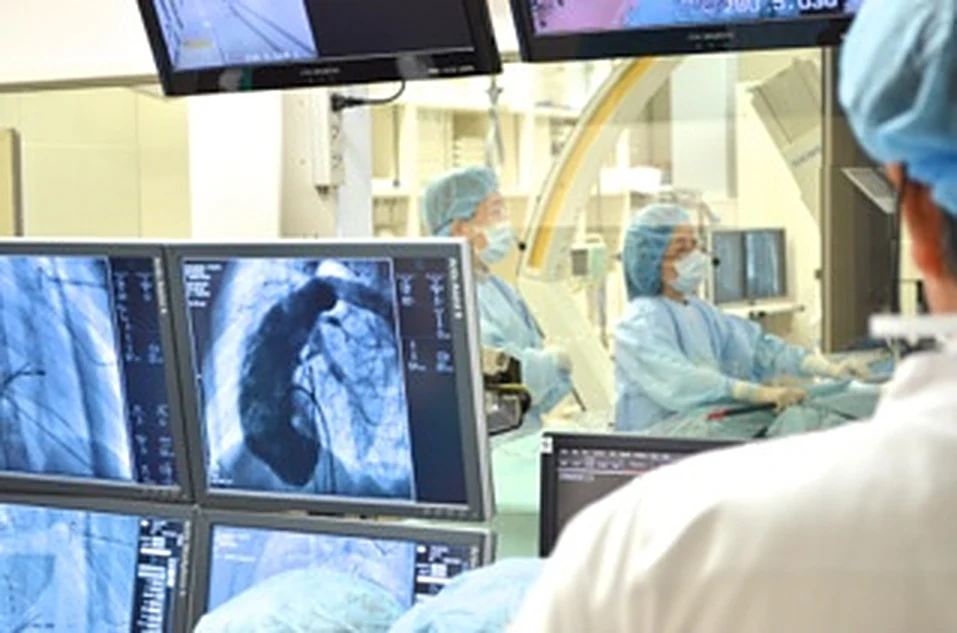
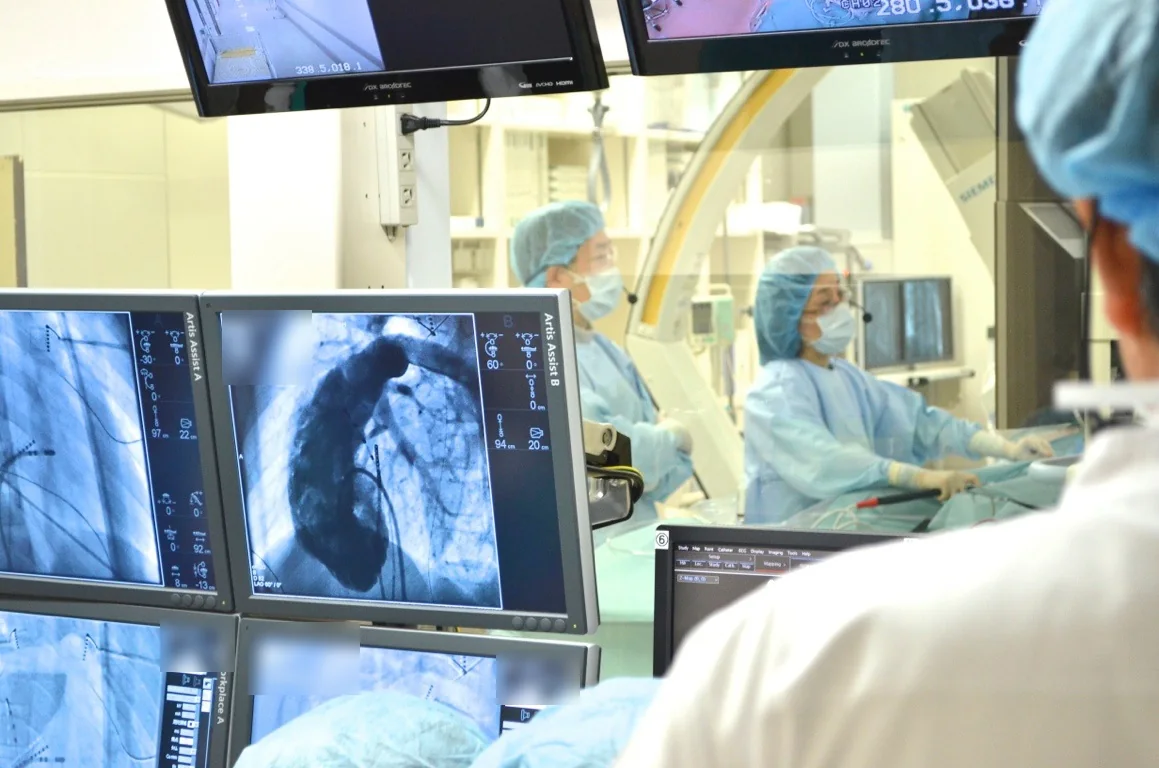
トップのアブレーションの仕事の写真を7719の原本（高画質）に差し替え。モニターの患者情報はぼかし

diff --git a/index.html b/index.html
@@ -18,7 +18,7 @@
   <meta name="apple-mobile-web-app-status-bar-style" content="black-translucent">
   <meta name="apple-mobile-web-app-title" content="つぐとしHP">
   <link rel="stylesheet" href="assets/site.css">
-  <link rel="stylesheet" href="assets/tsugu.css?v=20260926f">
+  <link rel="stylesheet" href="assets/tsugu.css?v=20260926g">
   <script>document.documentElement.classList.add('nx-js');</script>
   <style>
     body {
@@ -345,7 +345,7 @@
               </ul>
               <p class="tile-links"><a href="ablation.html">全体のデータ</a><a href="wpw_results.html">WPW</a><a href="pvc_results.html">PVC/NSVT</a><a href="avnrt_results.html">AVNRT</a></p>
             </div>
-            <a class="abl-photo" href="ablation.html" tabindex="-1" aria-hidden="true"><img src="assets/media/ablation-room.webp" width="957" height="633" alt="" loading="lazy"></a>
+            <a class="abl-photo" href="ablation.html" tabindex="-1" aria-hidden="true"><img src="assets/media/ablation-room.webp?v=2" width="1159" height="768" alt="" loading="lazy"></a>
           </div>
         </div>
       </section>

diff --git a/denden/index.html b/denden/index.html
@@ -6,7 +6,7 @@
   <meta name="description" content="平成9年（1997年）元旦に開設した、でんでん虫のホームページ。でんでん虫の独り言、闘病の記、処世訓解説、短歌、著書のPDFなど。">
   <title>でんでん虫のホームページ</title>
   <meta name="theme-color" content="#8bf5c5">
-  <link rel="stylesheet" href="../assets/tsugu.css?v=20260926f">
+  <link rel="stylesheet" href="../assets/tsugu.css?v=20260926g">
   <script>document.documentElement.classList.add('nx-js');</script>
   <!-- Google tag (gtag.js) -->
   <script async src="https://www.googletagmanager.com/gtag/js?id=G-R0BG9XQGE4"></script>

diff --git a/_private_src/index.html b/_private_src/index.html
@@ -9,7 +9,7 @@
   <link rel="icon" type="image/png" sizes="32x32" href="../assets/icons/profile-32.png">
   <link rel="apple-touch-icon" sizes="180x180" href="../assets/icons/profile-180.png">
   <meta name="theme-color" content="#8bf5c5">
-  <link rel="stylesheet" href="../assets/tsugu.css?v=20260926f">
+  <link rel="stylesheet" href="../assets/tsugu.css?v=20260926g">
   <style>
     /* このページだけの追加（所思雑感） */
     .nx .pv-group { max-width: 1120px; margin: 0 auto; padding: 0 var(--gutter); scroll-margin-top: calc(var(--header-h) + 16px); }

diff --git a/page_rfca/rfca_admission.html b/page_rfca/rfca_admission.html
@@ -9,7 +9,7 @@
   <link rel="icon" type="image/png" sizes="32x32" href="../assets/icons/profile-32.png">
   <link rel="apple-touch-icon" sizes="180x180" href="../assets/icons/profile-180.png">
   <meta name="theme-color" content="#8bf5c5">
-  <link rel="stylesheet" href="../assets/tsugu.css?v=20260926f">
+  <link rel="stylesheet" href="../assets/tsugu.css?v=20260926g">
   <script>document.documentElement.classList.add('nx-js');</script>
   <!-- Google tag (gtag.js) -->
   <script async src="https://www.googletagmanager.com/gtag/js?id=G-R0BG9XQGE4"></script>

diff --git a/page_rfca/rfca_manual.html b/page_rfca/rfca_manual.html
@@ -9,7 +9,7 @@
   <link rel="icon" type="image/png" sizes="32x32" href="../assets/icons/profile-32.png">
   <link rel="apple-touch-icon" sizes="180x180" href="../assets/icons/profile-180.png">
   <meta name="theme-color" content="#8bf5c5">
-  <link rel="stylesheet" href="../assets/tsugu.css?v=20260926f">
+  <link rel="stylesheet" href="../assets/tsugu.css?v=20260926g">
   <script>document.documentElement.classList.add('nx-js');</script>
   <!-- Google tag (gtag.js) -->
   <script async src="https://www.googletagmanager.com/gtag/js?id=G-R0BG9XQGE4"></script>

diff --git a/page_rfca/rfca_room_5.html b/page_rfca/rfca_room_5.html
@@ -9,7 +9,7 @@
   <link rel="icon" type="image/png" sizes="32x32" href="../assets/icons/profile-32.png">
   <link rel="apple-touch-icon" sizes="180x180" href="../assets/icons/profile-180.png">
   <meta name="theme-color" content="#8bf5c5">
-  <link rel="stylesheet" href="../assets/tsugu.css?v=20260926f">
+  <link rel="stylesheet" href="../assets/tsugu.css?v=20260926g">
   <script>document.documentElement.classList.add('nx-js');</script>
   <!-- Google tag (gtag.js) -->
   <script async src="https://www.googletagmanager.com/gtag/js?id=G-R0BG9XQGE4"></script>

diff --git a/page_rfca/rfca_room_5_2.html b/page_rfca/rfca_room_5_2.html
@@ -9,7 +9,7 @@
   <link rel="icon" type="image/png" sizes="32x32" href="../assets/icons/profile-32.png">
   <link rel="apple-touch-icon" sizes="180x180" href="../assets/icons/profile-180.png">
   <meta name="theme-color" content="#8bf5c5">
-  <link rel="stylesheet" href="../assets/tsugu.css?v=20260926f">
+  <link rel="stylesheet" href="../assets/tsugu.css?v=20260926g">
   <script>document.documentElement.classList.add('nx-js');</script>
   <!-- Google tag (gtag.js) -->
   <script async src="https://www.googletagmanager.com/gtag/js?id=G-R0BG9XQGE4"></script>

diff --git a/manuscripts.html b/manuscripts.html
@@ -9,7 +9,7 @@
   <link rel="icon" type="image/png" sizes="32x32" href="assets/icons/profile-32.png">
   <link rel="apple-touch-icon" sizes="180x180" href="assets/icons/profile-180.png">
   <meta name="theme-color" content="#8bf5c5">
-  <link rel="stylesheet" href="assets/tsugu.css?v=20260926f">
+  <link rel="stylesheet" href="assets/tsugu.css?v=20260926g">
   <script>document.documentElement.classList.add('nx-js');</script>
   <!-- Google tag (gtag.js) -->
   <script async src="https://www.googletagmanager.com/gtag/js?id=G-R0BG9XQGE4"></script>

diff --git a/media.html b/media.html
@@ -9,7 +9,7 @@
   <link rel="icon" type="image/png" sizes="32x32" href="assets/icons/profile-32.png">
   <link rel="apple-touch-icon" sizes="180x180" href="assets/icons/profile-180.png">
   <meta name="theme-color" content="#8bf5c5">
-  <link rel="stylesheet" href="assets/tsugu.css?v=20260926f">
+  <link rel="stylesheet" href="assets/tsugu.css?v=20260926g">
   <script>document.documentElement.classList.add('nx-js');</script>
   <!-- Google tag (gtag.js) -->
   <script async src="https://www.googletagmanager.com/gtag/js?id=G-R0BG9XQGE4"></script>

diff --git a/papers.html b/papers.html
@@ -9,7 +9,7 @@
   <link rel="icon" type="image/png" sizes="32x32" href="assets/icons/profile-32.png">
   <link rel="apple-touch-icon" sizes="180x180" href="assets/icons/profile-180.png">
   <meta name="theme-color" content="#8bf5c5">
-  <link rel="stylesheet" href="assets/tsugu.css?v=20260926f">
+  <link rel="stylesheet" href="assets/tsugu.css?v=20260926g">
   <script>document.documentElement.classList.add('nx-js');</script>
   <!-- Google tag (gtag.js) -->
   <script async src="https://www.googletagmanager.com/gtag/js?id=G-R0BG9XQGE4"></script>

diff --git a/society.html b/society.html
@@ -9,7 +9,7 @@
   <link rel="icon" type="image/png" sizes="32x32" href="assets/icons/profile-32.png">
   <link rel="apple-touch-icon" sizes="180x180" href="assets/icons/profile-180.png">
   <meta name="theme-color" content="#8bf5c5">
-  <link rel="stylesheet" href="assets/tsugu.css?v=20260926f">
+  <link rel="stylesheet" href="assets/tsugu.css?v=20260926g">
   <script>document.documentElement.classList.add('nx-js');</script>
   <!-- Google tag (gtag.js) -->
   <script async src="https://www.googletagmanager.com/gtag/js?id=G-R0BG9XQGE4"></script>

diff --git a/writing.html b/writing.html
@@ -9,7 +9,7 @@
   <link rel="icon" type="image/png" sizes="32x32" href="assets/icons/profile-32.png">
   <link rel="apple-touch-icon" sizes="180x180" href="assets/icons/profile-180.png">
   <meta name="theme-color" content="#8bf5c5">
-  <link rel="stylesheet" href="assets/tsugu.css?v=20260926f">
+  <link rel="stylesheet" href="assets/tsugu.css?v=20260926g">
   <script>document.documentElement.classList.add('nx-js');</script>
   <!-- Google tag (gtag.js) -->
   <script async src="https://www.googletagmanager.com/gtag/js?id=G-R0BG9XQGE4"></script>
